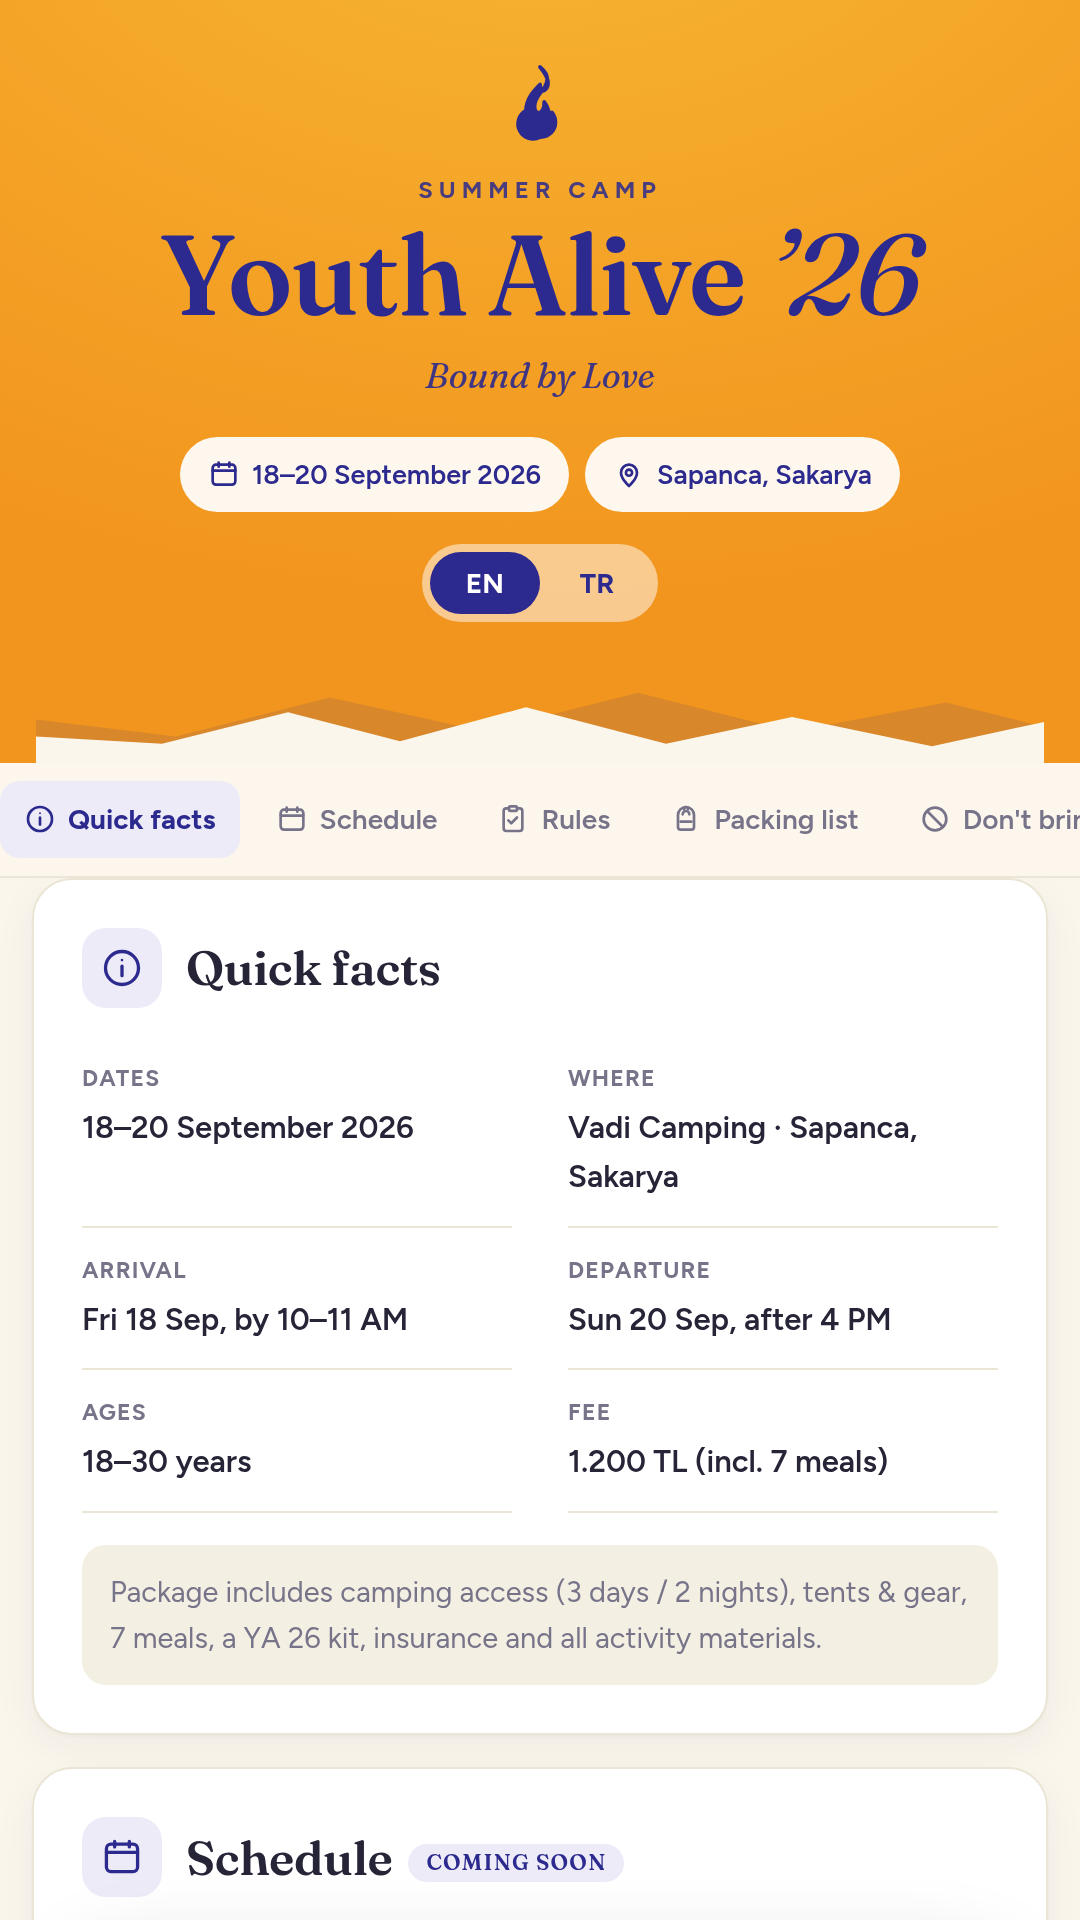
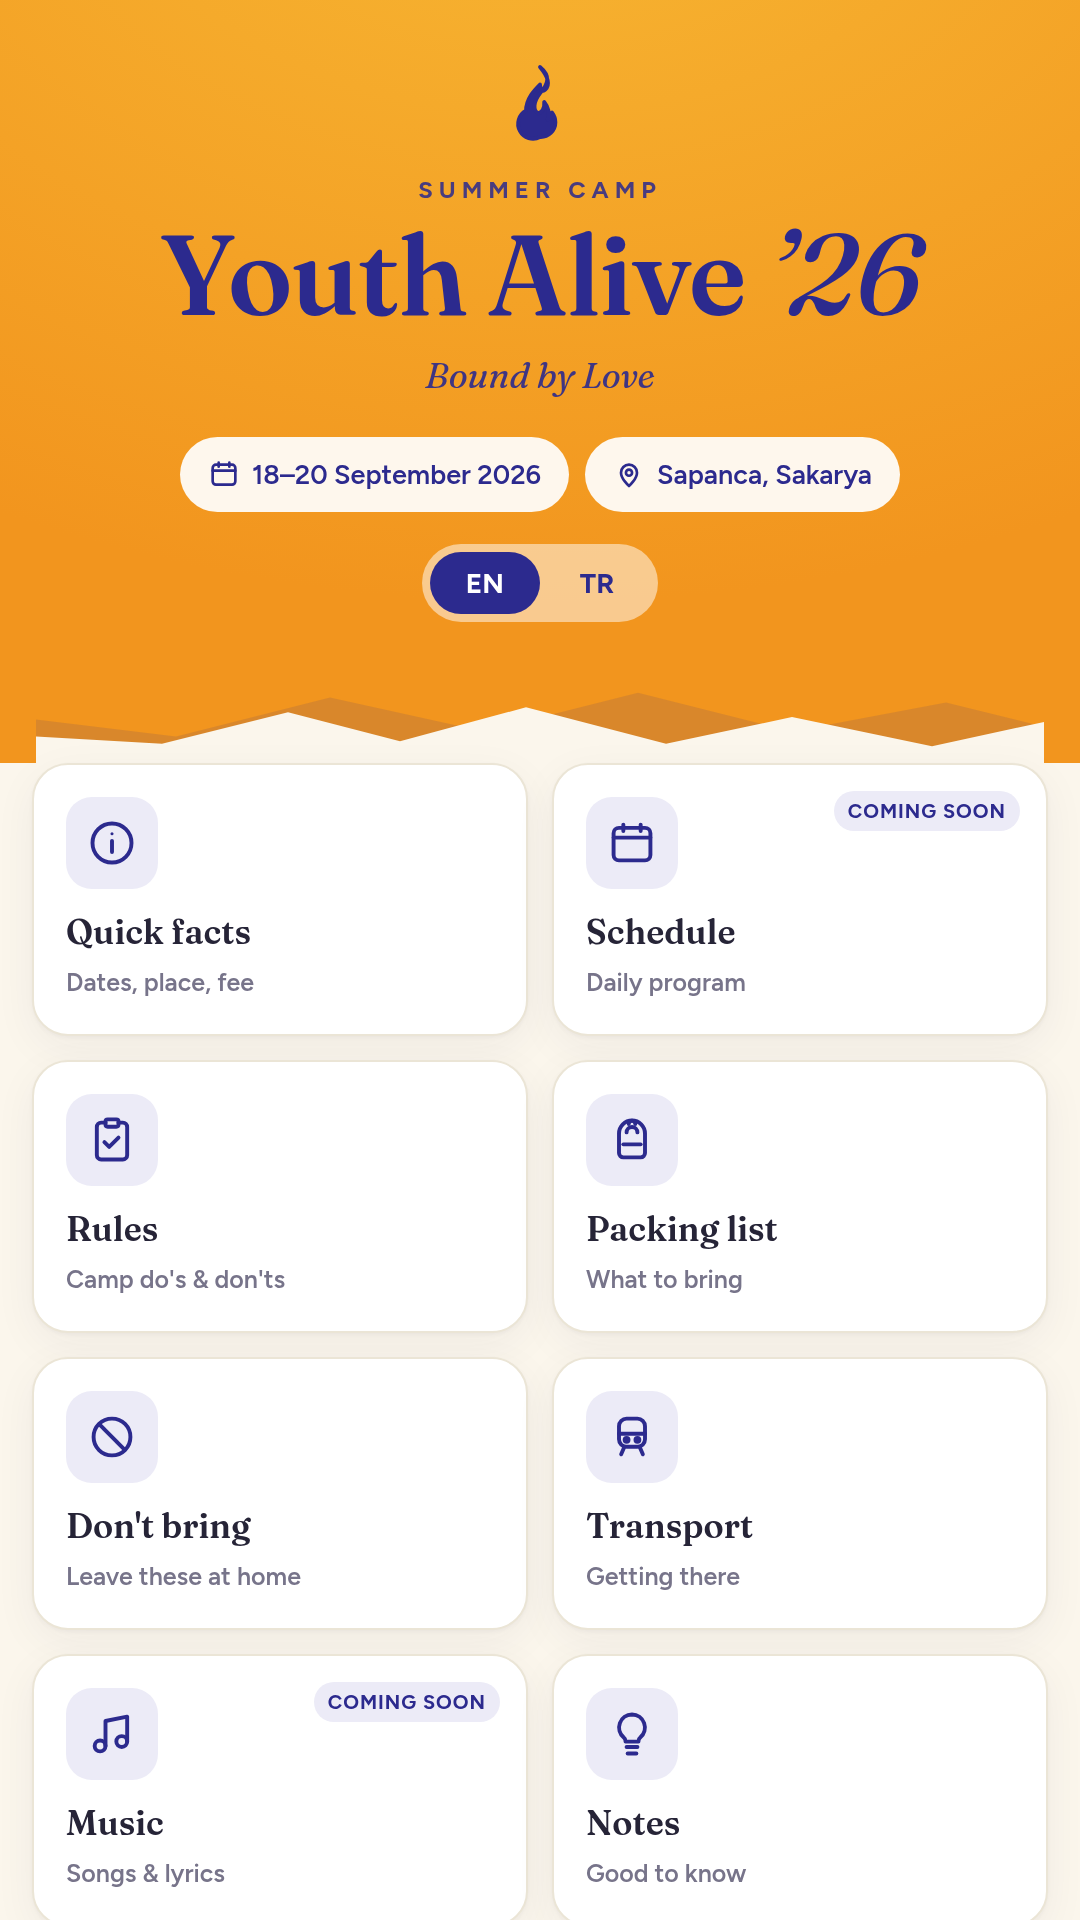
Home = category tile menu; per-category views with back nav
- Landing page is now an icon-tile grid (one tile per category, with hint + coming-soon badge)
- Tapping a tile opens just that category; sticky back header + bottom 'Back to menu'
- Hash routing (#rules etc.) — shareable deep links, browser back works
- Language toggle re-renders the current view; removed chip nav + scroll-spy
- Fix: overflow-x:clip (was hidden) so trackpad/touch scrolling works; SW cache v3

diff --git a/index.html b/index.html
@@ -42,7 +42,7 @@
   .wrap{max-width:var(--maxw);margin:0 auto;padding:0 16px}
 
   /* ---------- Mobile-first base ---------- */
-  html,body{overflow-x:hidden;overscroll-behavior-y:none}
+  html,body{overflow-x:clip}
   *{-webkit-tap-highlight-color:transparent}
   button,a,.chip,summary{touch-action:manipulation}
   img,svg{max-width:100%}
@@ -84,24 +84,46 @@
   .hero-range .back{fill:var(--indigo);opacity:.12}
   .hero-range .front{fill:var(--cream)}
 
-  /* ---------- Sticky nav ---------- */
-  nav.chips{position:sticky;top:0;z-index:20;background:rgba(251,246,236,.85);
-    backdrop-filter:blur(10px);-webkit-backdrop-filter:blur(10px);border-bottom:1px solid var(--line)}
-  .chips-inner{display:flex;gap:6px;overflow-x:auto;
-    padding:9px calc(14px + env(safe-area-inset-right)) 9px calc(14px + env(safe-area-inset-left));
-    max-width:var(--maxw);margin:0 auto;scrollbar-width:none;
-    -webkit-overflow-scrolling:touch;scroll-snap-type:x proximity}
-  .chips-inner::-webkit-scrollbar{display:none}
-  .chip{white-space:nowrap;flex:0 0 auto;font-family:"Figtree",sans-serif;font-weight:600;
-    font-size:14px;background:transparent;color:var(--muted);border-radius:10px;
-    padding:8px 12px;min-height:38px;display:inline-flex;align-items:center;gap:6px;
-    scroll-snap-align:start;cursor:pointer;text-decoration:none;transition:.15s}
-  .chip .ic{width:16px;height:16px;stroke-width:2}
-  .chip:hover{background:var(--soft);color:var(--indigo)}
-  .chip.active{background:var(--tint);color:var(--indigo);font-weight:700}
+  /* ---------- Home tiles (the category menu) ---------- */
+  .tiles{display:grid;grid-template-columns:repeat(2,1fr);gap:12px;padding:0 0 8px}
+  @media(min-width:600px){.tiles{grid-template-columns:repeat(3,1fr)}}
+  .tile{position:relative;display:flex;flex-direction:column;gap:12px;align-items:flex-start;
+    background:var(--card);border:1px solid var(--line);border-radius:18px;padding:16px;
+    text-decoration:none;color:var(--ink);box-shadow:var(--shadow);
+    transition:transform .15s,box-shadow .15s,border-color .15s}
+  .tile:hover{transform:translateY(-2px);box-shadow:0 12px 26px rgba(38,36,80,.10);border-color:var(--tint)}
+  .tile:active{transform:translateY(0)}
+  .tile .tico{width:46px;height:46px;flex:0 0 auto;border-radius:13px;background:var(--tint);
+    color:var(--indigo);display:grid;place-items:center}
+  .tile .tico .ic{width:26px;height:26px}
+  .tile .tlabel{font-family:"Fraunces",Georgia,serif;font-weight:600;font-size:17px;line-height:1.15}
+  .tile .thint{color:var(--muted);font-size:12.5px;margin-top:-7px}
+  .tile .tsoon{position:absolute;top:13px;right:13px;background:var(--tint);color:var(--indigo);
+    font-size:10px;font-weight:700;text-transform:uppercase;letter-spacing:.5px;border-radius:999px;padding:2px 7px}
+
+  /* ---------- Detail header (shown when viewing one category) ---------- */
+  .dhead{position:sticky;top:0;z-index:30;display:flex;align-items:center;justify-content:space-between;gap:10px;
+    padding:8px calc(12px + env(safe-area-inset-right)) 8px calc(10px + env(safe-area-inset-left));
+    background:rgba(251,246,236,.9);backdrop-filter:blur(10px);-webkit-backdrop-filter:blur(10px);
+    border-bottom:1px solid var(--line);min-height:54px}
+  .dhead .lang{margin:0}
+  .backbtn{display:inline-flex;align-items:center;gap:4px;border:0;background:transparent;color:var(--indigo);
+    font-family:"Figtree",sans-serif;font-weight:700;font-size:15px;cursor:pointer;padding:8px 10px;border-radius:10px}
+  .backbtn:hover{background:var(--soft)}
+  .backbtn .ic{width:20px;height:20px;stroke-width:2.2}
+  .dwrap{padding:20px 16px 44px}
+  .tomenu{display:inline-flex;align-items:center;gap:6px;margin:0;border:1px solid var(--line);
+    background:var(--card);color:var(--indigo);font-family:"Figtree",sans-serif;font-weight:700;font-size:14px;
+    border-radius:12px;padding:12px 16px;cursor:pointer;text-decoration:none}
+  .tomenu:hover{background:var(--soft)}
+  .tomenu .ic{width:18px;height:18px;stroke-width:2.2}
+
+  /* view transition */
+  .fade{animation:fade .26s ease}
+  @keyframes fade{from{opacity:0;transform:translateY(6px)}to{opacity:1;transform:none}}
 
   /* ---------- Cards / sections ---------- */
-  main{padding:24px 0 40px}
+  main{padding:22px 0 44px}
   section.card{background:var(--card);border:1px solid var(--line);border-radius:var(--radius);
     box-shadow:var(--shadow);padding:24px;margin:0 0 16px;scroll-margin-top:62px}
   .sec-head{display:flex;align-items:center;gap:12px;margin:0 0 14px}
@@ -209,6 +231,7 @@
 </head>
 <body>
 
+<div id="home">
 <header class="hero">
   <div class="flame" aria-hidden="true">
     <svg viewBox="0 0 24 24" xmlns="http://www.w3.org/2000/svg"><path fill="#2C2A8E" stroke="#2C2A8E" stroke-width="1.1" stroke-linejoin="round" d="M12 2c2.5 3 3 5 1.5 6.5C12.8 9.2 12 8.5 12 7c-1.5 1.5-4 4-4 7.5A4 4 0 0 0 12 22a4.2 4.2 0 0 0 4.4-4.2c0-1.2-.4-2-1-2.8.2 1-.4 1.8-1.2 2 .6-1.6.2-3.5-1-5 .2 2-.8 3-1.7 3.2C10 14.5 10 12 12 9.5 14.5 6.7 15 4.5 12 2Z"/></svg>
@@ -227,20 +250,30 @@
     </span>
   </div>
   <div class="lang" role="group" aria-label="Language">
-    <button id="btn-en" onclick="setLang('en')" aria-pressed="true">EN</button>
-    <button id="btn-tr" onclick="setLang('tr')" aria-pressed="false">TR</button>
+    <button data-lang="en" onclick="setLang('en')" aria-pressed="true">EN</button>
+    <button data-lang="tr" onclick="setLang('tr')" aria-pressed="false">TR</button>
   </div>
   <svg class="hero-range" viewBox="0 0 1440 80" preserveAspectRatio="none" aria-hidden="true">
     <path class="back" d="M0,80 L0,44 L200,58 L420,26 L640,54 L860,22 L1080,54 L1300,30 L1440,50 L1440,80 Z"/>
     <path class="front" d="M0,80 L0,58 L180,64 L360,38 L520,62 L700,34 L900,64 L1080,42 L1280,66 L1440,46 L1440,80 Z"/>
   </svg>
-</header>
+  </header>
+  <main class="wrap"><div class="tiles" id="tiles"></div></main>
+</div>
 
-<nav class="chips" aria-label="Sections">
-  <div class="chips-inner" id="chips"></div>
-</nav>
-
-<main class="wrap" id="main"></main>
+<div id="detail" hidden>
+  <div class="dhead">
+    <button class="backbtn" type="button" onclick="goHome()">
+      <svg class="ic" viewBox="0 0 24 24"><path d="m15 5-7 7 7 7"/></svg>
+      <span data-i18n="back">Menu</span>
+    </button>
+    <div class="lang" role="group" aria-label="Language">
+      <button data-lang="en" onclick="setLang('en')" aria-pressed="true">EN</button>
+      <button data-lang="tr" onclick="setLang('tr')" aria-pressed="false">TR</button>
+    </div>
+  </div>
+  <div class="wrap dwrap"><div id="view"></div></div>
+</div>
 
 <footer>
   <span data-i18n="footer">Youth Alive 26 · See you at camp</span> <span class="heart">♥</span>
@@ -256,6 +289,7 @@
 
 const UI = {
   soon:      { en:"Coming soon", tr:"Yakında" },
+  toMenu:    { en:"Back to menu", tr:"Menüye dön" },
   seeGroup:  { en:"More details will be shared in the WhatsApp participant group.",
                tr:"Daha fazla ayrıntı WhatsApp katılımcı grubunda paylaşılacaktır." },
   install: {
@@ -288,15 +322,15 @@ const ICONS = {
 
 const DATA = {
   nav: [
-    { id:"facts",     ico:"⛺", en:"Quick facts",  tr:"Özet bilgi" },
-    { id:"schedule",  ico:"🗓", en:"Schedule",     tr:"Program" },
-    { id:"rules",     ico:"📋", en:"Rules",        tr:"Kurallar" },
-    { id:"packing",   ico:"🎒", en:"Packing list", tr:"Eşya listesi" },
-    { id:"dont",      ico:"🚫", en:"Don't bring",  tr:"Getirilmez" },
-    { id:"transport", ico:"🚆", en:"Transport",    tr:"Ulaşım" },
-    { id:"music",     ico:"🎵", en:"Music",        tr:"Müzik" },
-    { id:"notes",     ico:"💡", en:"Notes",        tr:"Notlar" },
-    { id:"contact",   ico:"📞", en:"Contact",      tr:"İletişim" },
+    { id:"facts",     en:"Quick facts",  tr:"Özet bilgi",   he:"Dates, place, fee",   ht:"Tarih, yer, ücret" },
+    { id:"schedule",  en:"Schedule",     tr:"Program",      he:"Daily program",       ht:"Günlük program", soon:true },
+    { id:"rules",     en:"Rules",        tr:"Kurallar",     he:"Camp do's & don'ts",  ht:"Uyulması gerekenler" },
+    { id:"packing",   en:"Packing list", tr:"Eşya listesi", he:"What to bring",       ht:"Ne getirmeli" },
+    { id:"dont",      en:"Don't bring",  tr:"Getirilmez",   he:"Leave these at home", ht:"Evde bırakın" },
+    { id:"transport", en:"Transport",    tr:"Ulaşım",       he:"Getting there",       ht:"Nasıl gidilir" },
+    { id:"music",     en:"Music",        tr:"Müzik",        he:"Songs & lyrics",      ht:"Şarkı & sözler", soon:true },
+    { id:"notes",     en:"Notes",        tr:"Notlar",       he:"Good to know",        ht:"Faydalı bilgiler" },
+    { id:"contact",   en:"Contact",      tr:"İletişim",     he:"Register & ask",      ht:"Kayıt & iletişim" },
   ],
 
   facts: {
@@ -552,41 +586,79 @@ function renderContact(d){
     `<div class="tip">${L(d.note)}</div>`);
 }
 
+/* one renderer per section, keyed by id (matches nav + hash) */
+const SECTION_RENDERERS = {
+  facts:     ()=>renderFacts(DATA.facts),
+  schedule:  ()=>renderPlaceholder("schedule", DATA.schedule),
+  rules:     ()=>renderRules(DATA.rules),
+  packing:   ()=>renderPacking(DATA.packing),
+  dont:      ()=>renderDont(DATA.dont),
+  transport: ()=>renderTransport(DATA.transport),
+  music:     ()=>renderPlaceholder("music", DATA.music),
+  notes:     ()=>renderNotes(DATA.notes),
+  contact:   ()=>renderContact(DATA.contact),
+};
+
+function renderTiles(){
+  document.getElementById("tiles").innerHTML = DATA.nav.map(n=>`
+    <a class="tile" href="#${n.id}">
+      ${n.soon ? `<span class="tsoon">${L(UI.soon)}</span>` : ""}
+      <span class="tico">${ICONS[n.id]||""}</span>
+      <span class="tlabel">${esc(n[lang])}</span>
+      <span class="thint">${esc(lang==="en" ? n.he : n.ht)}</span>
+    </a>`).join("");
+}
+
+/* static i18n bits + toggle state + tiles. Does not switch views. */
 function render(){
   document.documentElement.lang = lang;
-  // hero i18n bits
-  const heroTxt = {
+  const txt = {
     eyebrow:{en:"Summer Camp",tr:"Yaz Kampı"},
     tagline:{en:"Bound by Love",tr:"Sevgiyle Birleşen"},
     heroDates:{en:"18–20 September 2026",tr:"18–20 Eylül 2026"},
     heroLoc:{en:"Sapanca, Sakarya",tr:"Sapanca, Sakarya"},
     footer:{en:"Youth Alive 26 · See you at camp",tr:"Youth Alive 26 · Kampta görüşürüz"},
+    back:{en:"Menu",tr:"Menü"},
   };
   document.querySelectorAll("[data-i18n]").forEach(el=>{
     const k = el.getAttribute("data-i18n");
-    if (heroTxt[k]) el.textContent = heroTxt[k][lang];
+    if (txt[k]) el.textContent = txt[k][lang];
   });
-  // toggle state
-  document.getElementById("btn-en").setAttribute("aria-pressed", lang==="en");
-  document.getElementById("btn-tr").setAttribute("aria-pressed", lang==="tr");
+  document.querySelectorAll("[data-lang]").forEach(b=>
+    b.setAttribute("aria-pressed", b.dataset.lang===lang));
+  renderTiles();
+}
 
-  // nav chips
-  document.getElementById("chips").innerHTML = DATA.nav.map(n=>
-    `<a class="chip" href="#${n.id}" data-target="${n.id}">${ICONS[n.id]||""}<span>${n[lang]}</span></a>`).join("");
+/* ---------- view routing: home (tiles) <-> one category ---------- */
+function showHome(){
+  document.getElementById("detail").hidden = true;
+  document.getElementById("home").hidden = false;
+  window.scrollTo(0,0);
+}
 
-  // sections (order matches nav)
-  document.getElementById("main").innerHTML =
-    renderFacts(DATA.facts) +
-    renderPlaceholder("schedule", DATA.schedule) +
-    renderRules(DATA.rules) +
-    renderPacking(DATA.packing) +
-    renderDont(DATA.dont) +
-    renderTransport(DATA.transport) +
-    renderPlaceholder("music", DATA.music) +
-    renderNotes(DATA.notes) +
-    renderContact(DATA.contact);
+function showSection(id){
+  const body = SECTION_RENDERERS[id] ? SECTION_RENDERERS[id]() : "";
+  document.getElementById("view").innerHTML =
+    `<div class="fade">${body}
+       <button class="tomenu" type="button" onclick="goHome()">
+         <svg class="ic" viewBox="0 0 24 24" fill="none" stroke="currentColor"><path d="m15 5-7 7 7 7"/></svg>
+         ${esc(UI.toMenu[lang])}
+       </button>
+     </div>`;
+  document.getElementById("home").hidden = true;
+  document.getElementById("detail").hidden = false;
+  window.scrollTo(0,0);
+}
 
-  setupScrollSpy();
+function route(){
+  const id = decodeURIComponent(location.hash.replace(/^#/,""));
+  if (SECTION_RENDERERS[id]) showSection(id);
+  else showHome();
+}
+
+function goHome(){
+  if (location.hash) location.hash = "";   // fires hashchange -> route()
+  else showHome();
 }
 
 let refreshInstall = ()=>{};   // reassigned by the install banner once it exists
@@ -595,25 +667,13 @@ function setLang(l){
   lang = l;
   localStorage.setItem("ya-lang", l);
   render();
+  route();          // re-render the current view in the new language
   refreshInstall();
 }
 
-/* highlight active nav chip while scrolling */
-let spyObserver;
-function setupScrollSpy(){
-  if (spyObserver) spyObserver.disconnect();
-  const chips = [...document.querySelectorAll(".chip")];
-  spyObserver = new IntersectionObserver(entries=>{
-    entries.forEach(e=>{
-      if (e.isIntersecting){
-        chips.forEach(c=>c.classList.toggle("active", c.dataset.target===e.target.id));
-      }
-    });
-  }, { rootMargin:"-45% 0px -50% 0px", threshold:0 });
-  document.querySelectorAll("section.card").forEach(s=>spyObserver.observe(s));
-}
-
+window.addEventListener("hashchange", route);
 render();
+route();
 
 /* service worker for offline use */
 if ("serviceWorker" in navigator){

diff --git a/sw.js b/sw.js
@@ -1,6 +1,6 @@
 /* Youth Alive 26 — minimal offline service worker.
    Bump CACHE when you change content so phones get the update. */
-const CACHE = "ya26-v2";
+const CACHE = "ya26-v3";
 const SHELL = [
   "./",
   "./index.html",
